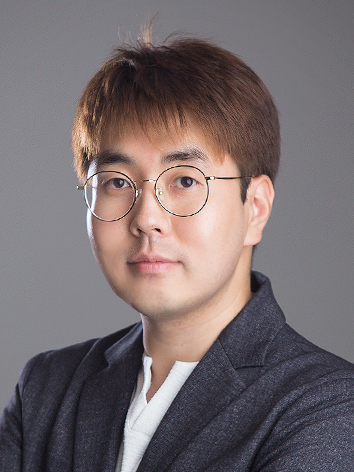
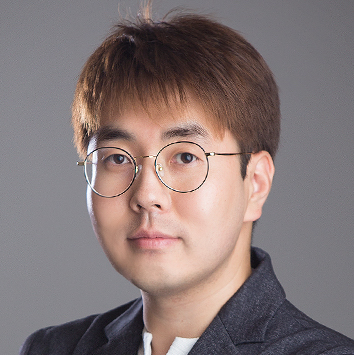
add speaker

diff --git a/index.html b/index.html
@@ -250,6 +250,11 @@ Communications and Networking</title>
             text-transform: uppercase;
             letter-spacing: 0.5px;
         }
+        #speakers .card img,
+        #organizers .card img {
+            height: 180px;
+            object-fit: cover;
+        }
 
     </style>
 </head>
@@ -459,7 +464,7 @@ Communications and Networking</title>
                     <div class="card h-100">
                         <div class="row g-0 h-100">
                             <div class="col-md-4 d-flex align-items-stretch">
-                                <img src="https://www.ee.ucla.edu/wp-content/uploads/ee/Danijela_Cabric.jpg" class="img-fluid rounded-start object-fit-cover" style="width:100%;height:100%">
+                                <img src="static/speakers/Danijela_Cabric.jpg" class="img-fluid rounded-start object-fit-cover" style="width:100%;height:100%">
                             </div>
                             <div class="col-md-8">
                                 <div class="card-body d-flex flex-column h-100 justify-content-center">
@@ -475,7 +480,7 @@ Communications and Networking</title>
                     <div class="card h-100">
                         <div class="row g-0 h-100">
                             <div class="col-md-4 d-flex align-items-stretch">
-                                <img src="https://research.nvidia.com/sites/default/files/person/S_Cammerer.jpg" class="img-fluid rounded-start object-fit-cover" style="width:100%;height:100%">
+                                <img src="static/speakers/S_Cammerer.jpeg" class="img-fluid rounded-start object-fit-cover" style="width:100%;height:100%">
                             </div>
                             <div class="col-md-8">
                                 <div class="card-body d-flex flex-column h-100 justify-content-center">
@@ -491,7 +496,7 @@ Communications and Networking</title>
                     <div class="card h-100">
                         <div class="row g-0 h-100">
                             <div class="col-md-4 d-flex align-items-stretch">
-                                <img src="https://blogs.juniper.net/wp-content/uploads/2022/06/cropped-mist-co-founder-cto-bob-friday.png" class="img-fluid rounded-start object-fit-cover" style="width:100%;height:100%">
+                                <img src="static/speakers/bob-friday.webp" class="img-fluid rounded-start object-fit-cover" style="width:100%;height:100%">
                             </div>
                             <div class="col-md-8">
                                 <div class="card-body d-flex flex-column h-100 justify-content-center">
@@ -513,6 +518,22 @@ Communications and Networking</title>
                                 <div class="card-body d-flex flex-column h-100 justify-content-center">
                                     <h5 class="card-title"><a href="https://www.linkedin.com/in/skensita/" target="_blank" class="no-underline">Min Jang</a></h5>
                                     <h6 class="card-subtitle mb-2 text-muted">Lead of Samsung Mobile Security, Samsung</h6>
+                                </div>
+                            </div>
+                        </div>
+                    </div>
+                </div>
+
+                <div class="col">
+                    <div class="card h-100">
+                        <div class="row g-0 h-100">
+                            <div class="col-md-4 d-flex align-items-stretch">
+                                <img src="static/speakers/TingfangJi.jpeg" class="img-fluid rounded-start object-fit-cover" style="width:100%;height:100%">
+                            </div>
+                            <div class="col-md-8">
+                                <div class="card-body d-flex flex-column h-100 justify-content-center">
+                                    <h5 class="card-title"><a href="https://www.linkedin.com/in/tingfang-ji-0982a137/" target="_blank" class="no-underline">Tingfang Ji</a></h5>
+                                    <h6 class="card-subtitle mb-2 text-muted">Global Head of 6G Research, Qualcomm</h6>
                                 </div>
                             </div>
                         </div>
